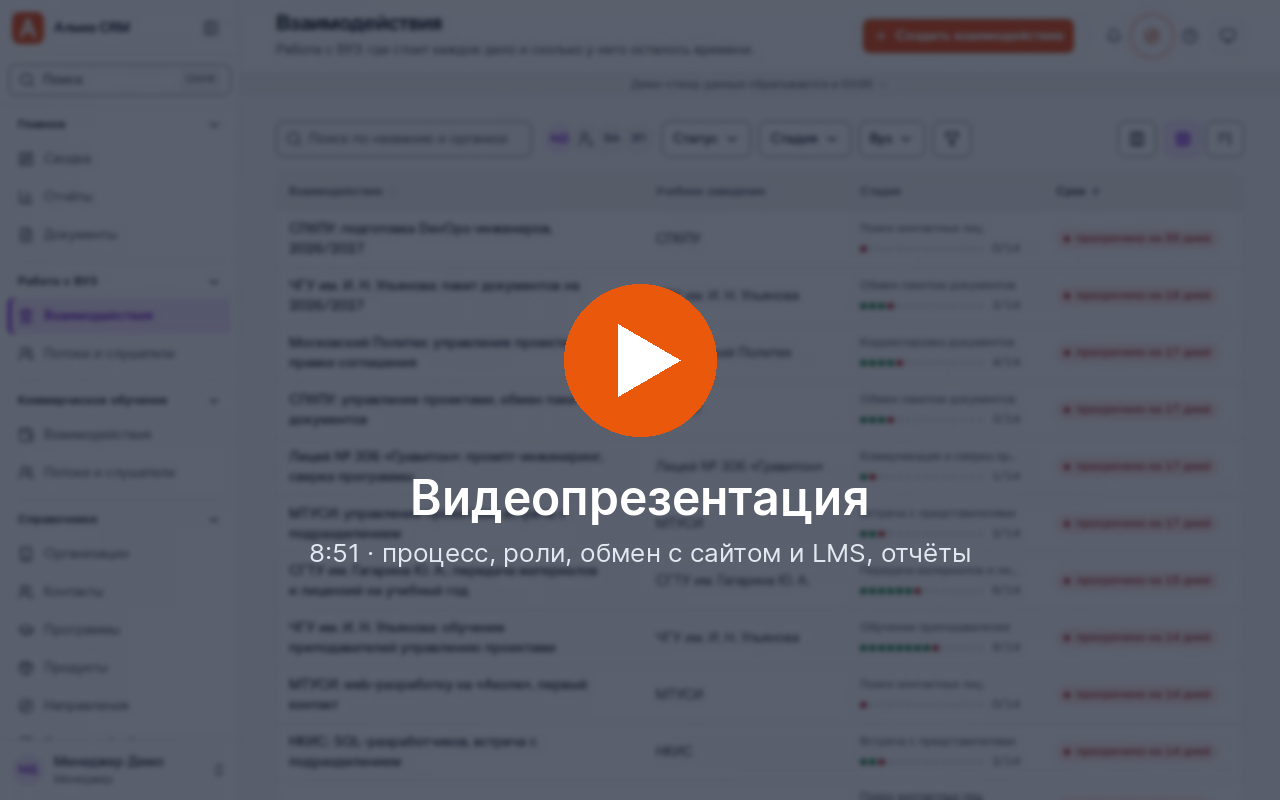
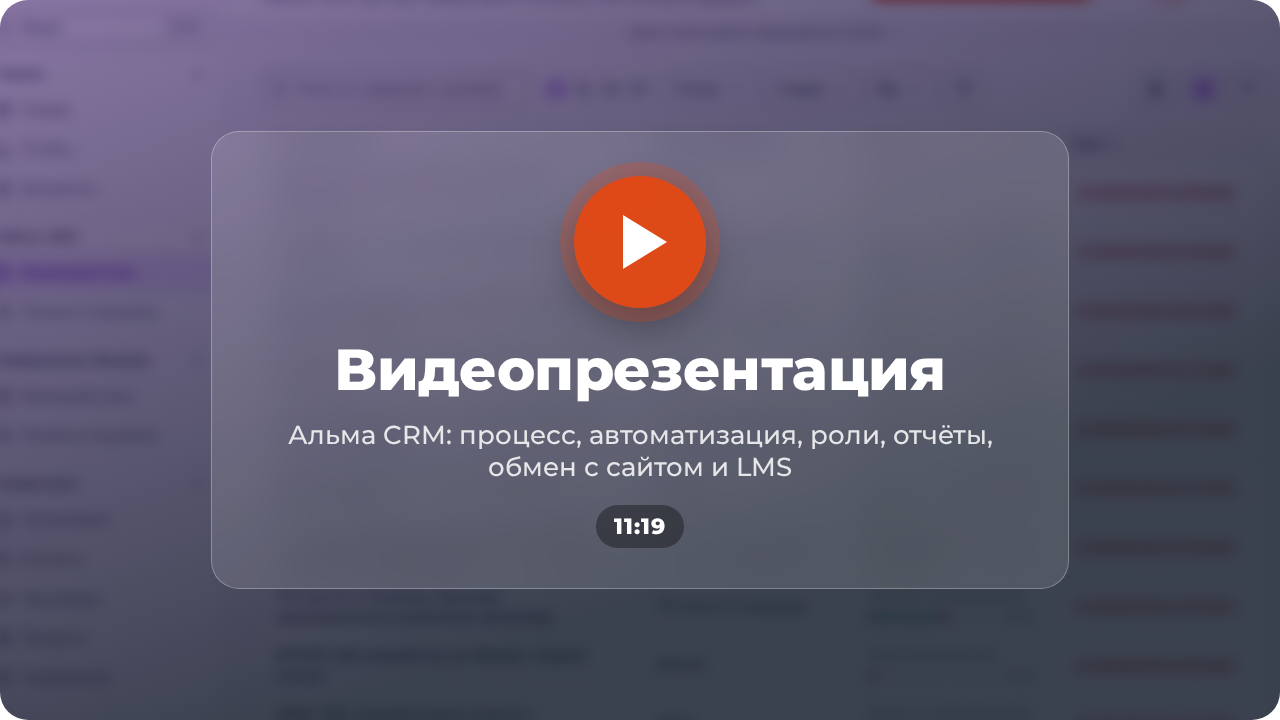
Постер видеопрезентации: кадр из ролика, настоящая длительность, прозрачные углы

diff --git a/README.md b/README.md
@@ -16,7 +16,7 @@
 </p>
 
 <p align="center">
-  <a href="https://alma.volkv.com/video-presentation.mp4"><img src="docs/media/video-poster.png" alt="Смотреть видеопрезентацию, 8:51" width="100%"></a>
+  <a href="https://alma.volkv.com/video-presentation.mp4"><img src="docs/media/video-poster.png" alt="Смотреть видеопрезентацию" width="100%"></a>
 </p>
 
 # Альма CRM
